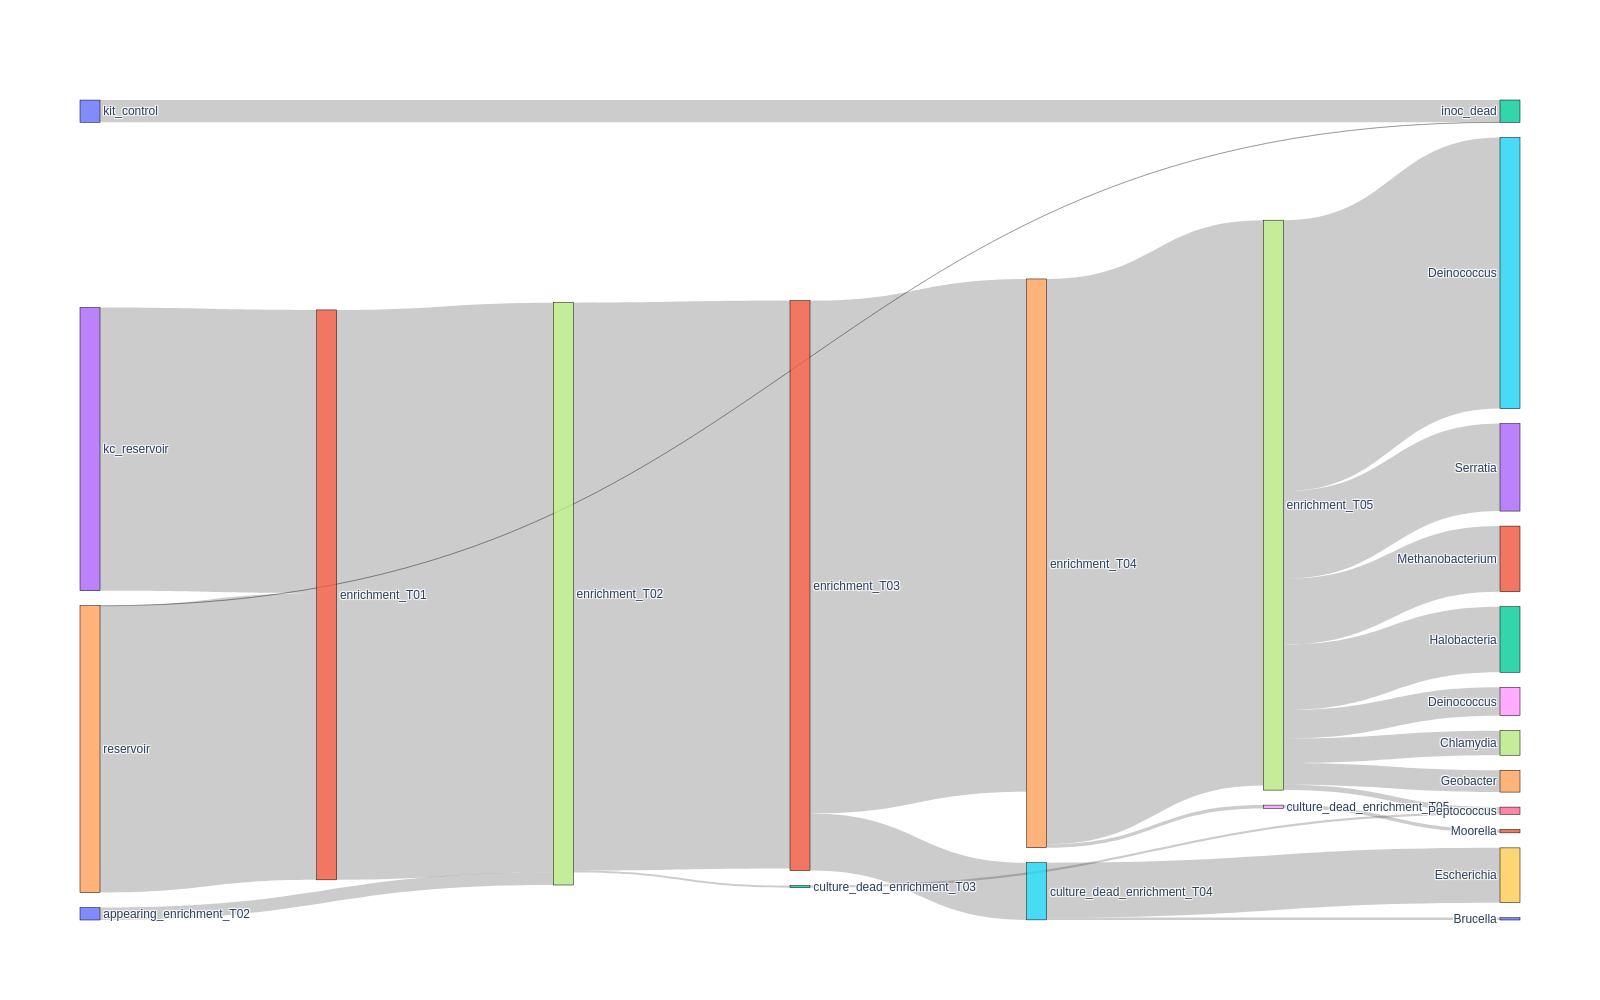
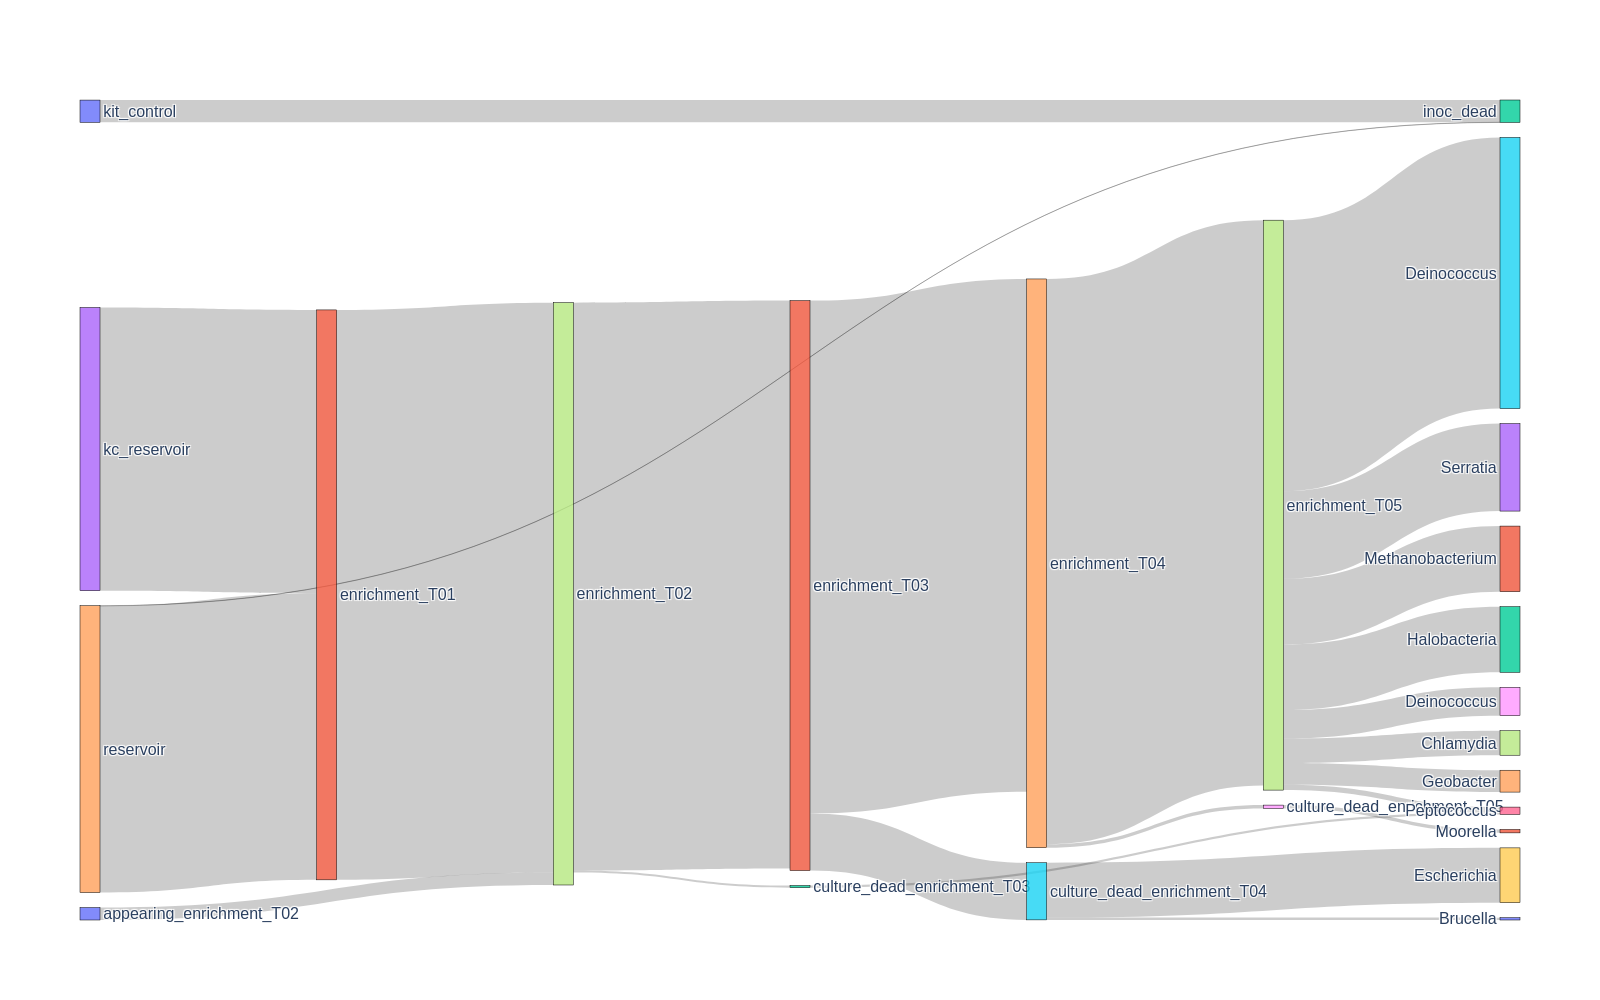
Update term used in script.

diff --git a/sankeymien/sankey.py b/sankeymien/sankey.py
@@ -76,31 +76,31 @@ def generate_sankey_diagram(input_file, type_cols, taxon_col, output_file):
     for type_col in type_cols:
         df[type_col] = df[type_cols[type_col]].mean(axis=1)
 
-    abund_org_unique_kc_T1 = diff_between_group(df, ['kit_control', 'enrichment_T01'], ['reservoir'], 'enrichment_T01', threshold)
+    abund_org_unique_kc_T1 = diff_between_group(df, ['kit_control', 'enrichment_T01'], ['initial'], 'enrichment_T01', threshold)
 
-    abund_org_unique_reservoir_T1 = diff_between_group(df, ['reservoir', 'enrichment_T01'], ['kit_control'], 'enrichment_T01', threshold)
+    abund_org_unique_reservoir_T1 = diff_between_group(df, ['initial', 'enrichment_T01'], ['kit_control'], 'enrichment_T01', threshold)
 
-    abund_org_shared_kc_reservoir_T1 = diff_between_group(df, ['reservoir', 'kit_control', 'enrichment_T01'], [], 'enrichment_T01', threshold)
+    abund_org_shared_kc_reservoir_T1 = diff_between_group(df, ['initial', 'kit_control', 'enrichment_T01'], [], 'enrichment_T01', threshold)
 
-    negative_controls = ['kit_control', 'reservoir']
+    negative_controls = ['kit_control', 'initial']
     if 'kit_control_T01' in type_cols:
         negative_controls.append('kit_control_T01')
     abund_org_appearing_T1 = diff_between_group(df, ['enrichment_T01'], negative_controls, 'enrichment_T01', threshold)
 
     if 'kit_control_T01' in type_cols:
-        abund_org_kc_T1 = diff_between_group(df, ['kit_control_T01', 'enrichment_T01'], ['kit_control', 'reservoir'], 'enrichment_T01', threshold)
+        abund_org_kc_T1 = diff_between_group(df, ['kit_control_T01', 'enrichment_T01'], ['kit_control', 'initial'], 'enrichment_T01', threshold)
     else:
         abund_org_kc_T1 = None
 
     abund_org_dead_kc = diff_between_group(df, ['kit_control'], ['enrichment_T01'], 'kit_control', threshold)
 
-    abund_org_dead_reservoir = diff_between_group(df, ['reservoir'], ['enrichment_T01'], 'reservoir', threshold)
+    abund_org_dead_reservoir = diff_between_group(df, ['initial'], ['enrichment_T01'], 'initial', threshold)
 
-    sankey_nodes = ['kit_control', 'reservoir', 'kc_reservoir', 'kit_control_T01', 'enrichment_T01', 'enrichment_T02']
-    sankey_links = {('kit_control', 'enrichment_T01'): abund_org_unique_kc_T1, ('kc_reservoir', 'enrichment_T01'): abund_org_shared_kc_reservoir_T1,
-                    ('reservoir', 'enrichment_T01'): abund_org_unique_reservoir_T1,
+    sankey_nodes = ['kit_control', 'initial', 'kc_initial', 'kit_control_T01', 'enrichment_T01', 'enrichment_T02']
+    sankey_links = {('kit_control', 'enrichment_T01'): abund_org_unique_kc_T1, ('kc_initial', 'enrichment_T01'): abund_org_shared_kc_reservoir_T1,
+                    ('initial', 'enrichment_T01'): abund_org_unique_reservoir_T1,
                     ('appearing', 'enrichment_T01'): abund_org_appearing_T1, ('kit_control_T01', 'enrichment_T01'): abund_org_kc_T1,
-                   ('kit_control', 'inoc_dead'): abund_org_dead_kc, ('reservoir', 'inoc_dead'): abund_org_dead_reservoir}
+                   ('kit_control', 'inoc_dead'): abund_org_dead_kc, ('initial', 'inoc_dead'): abund_org_dead_reservoir}
 
     enrichment_times = sorted([type_col for type_col in type_cols if 'enrichment_' in type_col and type_col != 'enrichment_T01'])
 
@@ -112,13 +112,13 @@ def generate_sankey_diagram(input_file, type_cols, taxon_col, output_file):
         appearing = 'appearing_' + current_time
         if enrichment_time in type_cols:
             if kit_control in type_cols:
-                abund_org_kc_T1 = diff_between_group(df, [kit_control, current_time], ['kit_control', 'reservoir'], current_time, threshold)
+                abund_org_kc_T1 = diff_between_group(df, [kit_control, current_time], ['kit_control', 'initial'], current_time, threshold)
             else:
                 abund_org_kc_T1 = None
             abund_org_T1_T2 = diff_between_group(df, [previous_time, current_time], [], previous_time, threshold)
             abund_org_appearing_T2 = diff_between_group(df, [current_time], [previous_time], current_time, threshold)
             abund_org_dead_T1 = diff_between_group(df, [previous_time], [current_time], previous_time, threshold)
-            negative_controls = ['kit_control', 'reservoir', previous_time]
+            negative_controls = ['kit_control', 'initial', previous_time]
             abund_org_appearing_T1 = diff_between_group(df, [current_time], negative_controls, current_time, threshold)
             sankey_links[(previous_time, current_time)] = abund_org_T1_T2
             sankey_links[(kit_control, current_time)] = abund_org_kc_T1
@@ -157,7 +157,6 @@ def generate_sankey_diagram(input_file, type_cols, taxon_col, output_file):
                         node_values[node_link[1]] = sankey_links[node_link]
                     else:
                         node_values[node_link[1]] += sankey_links[node_link]
-    print(node_values)
 
     if len(enrichment_times) > 0:
         final_time = enrichment_times[-1]
@@ -206,7 +205,7 @@ def generate_sankey_diagram(input_file, type_cols, taxon_col, output_file):
         value = modified_values
     ))])
 
-    fig.update_layout(title_text="", font_size=12, width=1600, height=1000)
+    fig.update_layout(title_text="", font_size=16, width=1600, height=1000)
     fig.write_image(output_file)
 
 

diff --git a/README.md b/README.md
@@ -29,6 +29,30 @@ sankeymien -a abundance_table.tsv -j experiments.json -o testoutput -t taxon
 
 `-o testoutput` is the output folder.
 
-## Usage
+## Input
+
+The abundance sample should look like this:
+
+| organism | s1   | s2   | k1 | taxon            |
+|----------|------|------|----|------------------|
+| org_a    | 1    | 2    | 5  | Bos              |
+| org_b    | 2000 | 3000 | 10 | Escherichia      |
+| org_c    | 500  | 600  | 5  | Parcubacteria    |
+| org_d    | 20   | 30   | 0  | Methanobacterium |
+
+The json should correspond to this:
+
+```json
+{
+    "experiment_2": {
+        "initial": ["s1", "s2"],
+        "kit_control": ["k1"],
+        "enrichment_T01": ["Ec1_1", "Ec1_2", "Ec1_3"],
+        "kit_control_T01": ["kec1"]
+    }
+}
+```
+
+## Output
 
 It generates a Sankey diagram showing the flow of relative abundance of organisms according to the different time steps of the enrichment cultures. The final enrichment is linked to taxon name to show the composition of the final communities.